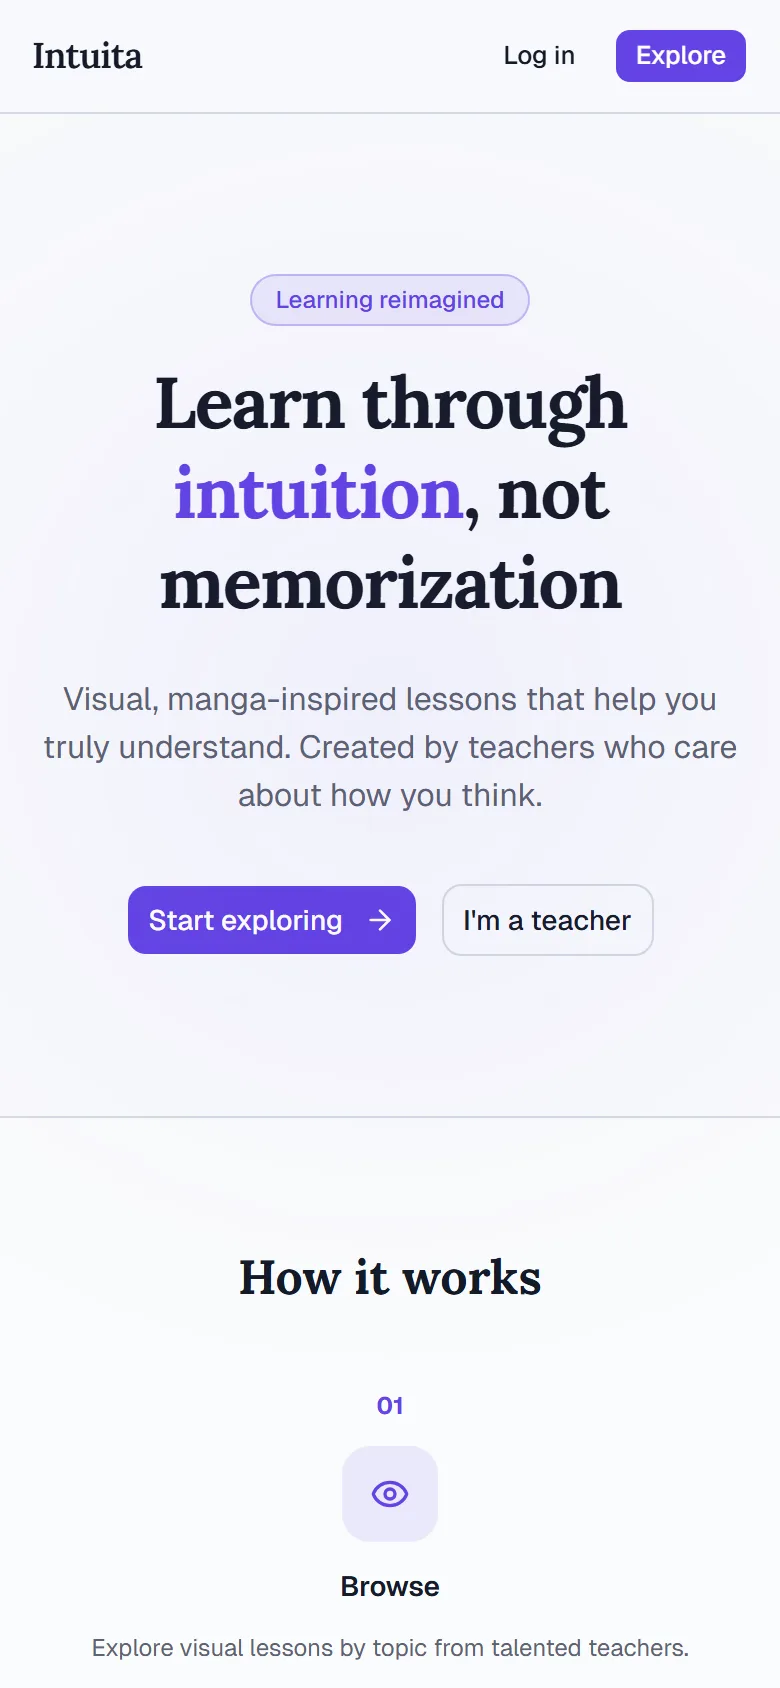
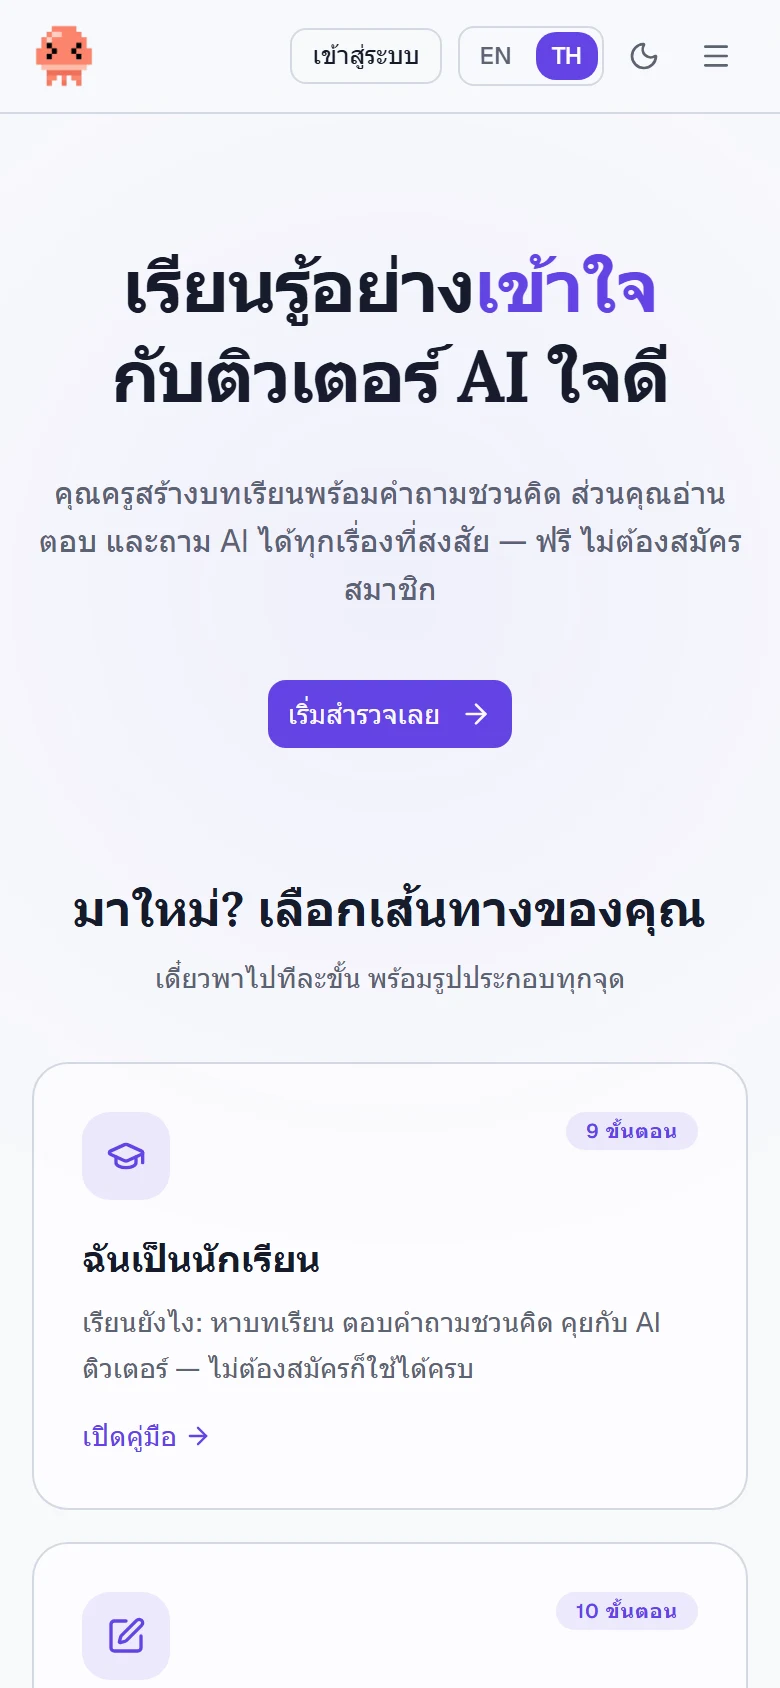
docs: show client use cases and workspace context

diff --git a/README.md b/README.md
@@ -13,7 +13,7 @@
 [![MongoDB](https://img.shields.io/badge/MongoDB-Mongoose_9-47A248?logo=mongodb&logoColor=white)](https://www.mongodb.com)
 [![Google Gemini](https://img.shields.io/badge/AI-Google_Gemini-4285F4?logo=google&logoColor=white)](https://ai.google.dev)
 
-[**Live Demo**](https://hot-potato-client.vercel.app) · [**Live API**](https://hot-potato-server.onrender.com) · [**Server Repository**](https://github.com/Jakkarin-Promsee/hot-potato-server)
+[**Showcase**](https://hot-potato-client.vercel.app/) · [**Server Repository**](https://github.com/Jakkarin-Promsee/hot-potato-server) · [**Workspace Repository**](https://github.com/jakkarin-promsee/hop-potato-root)
 
 </div>
 
@@ -23,33 +23,111 @@
 
 Hot Potato is a full-stack learning platform designed for students who are far from good schools and reliable internet. Teachers — including non-technical ones — author rich lessons with embedded critical-thinking questions. Students read the lessons, answer the questions, and can freely ask an AI tutor (Google Gemini) anything about the content. The AI responds with warm, coaching-style feedback in Thai by default, rather than plain grading.
 
-The project is split across two repositories. **This repository contains the web client and serves as the project's main documentation** — everything you need to understand and run the whole platform starts here.
+The deployable product is split across two repositories. **This repository contains the web client**; the separate workspace repository holds the cross-cutting architecture documentation.
+
+> **Implementing a feature? Keep the [root workspace repository](https://github.com/jakkarin-promsee/hop-potato-root) alongside this repo.** Its [developer guidebook](https://github.com/jakkarin-promsee/hop-potato-root#developer-guidebook) explains how client and server fit together, and its `graphify-out/` knowledge graph connects UI, API, model, and tutor concepts across both codebases. Check that graph and the current source on both sides before changing an endpoint, lesson block, auth flow, or AI behavior.
 
 | Repository | Role | Stack | Hosted on |
 | --- | --- | --- | --- |
-| **hot-potato-client** (this repo) | Web app — teacher editor + student viewer + AI chat surfaces | React 19, TypeScript, Vite 7, Tailwind CSS v4 | [Vercel](https://hot-potato-client.vercel.app) |
-| [**hot-potato-server**](https://github.com/Jakkarin-Promsee/hot-potato-server) | REST API — auth, lesson storage, student progress, the entire AI layer | Express 5, TypeScript, MongoDB (Mongoose 9), Google Gemini | [Render](https://hot-potato-server.onrender.com) |
+| **hot-potato-client** (this repo) | Web app — teacher editor + student viewer + AI chat surfaces | React 19, TypeScript, Vite 7, Tailwind CSS v4 | Vercel configuration |
+| [**hot-potato-server**](https://github.com/Jakkarin-Promsee/hot-potato-server) | REST API — auth, lesson storage, student progress, the entire AI layer | Express 5, TypeScript, MongoDB (Mongoose 9), Google Gemini | Render configuration |
 
 Two product principles shape the entire codebase:
 
 1. **AI access is never rationed for real students** — there are no per-student quotas. Rate limiting exists only to stop bots, with generous, environment-tunable thresholds.
 2. **Anonymous users keep full access** — reading lessons and using the AI tutor never requires an account. Logging in only adds persistence (answer history, chat history, tutor memory).
 
-## Screenshots
+## Use cases
 
-| Lesson viewer | Lesson editor |
+The interface is Thai-first and can switch to English. These screenshots show a seeded guide lesson and demo accounts, captured with Playwright at **2× resolution**. The landing screenshots were refreshed from the current running client with [`scripts/capture-readme-landing.mjs`](scripts/capture-readme-landing.mjs); the lesson and editor scenes come from [`scripts/capture-guide.mjs`](scripts/capture-guide.mjs). Those older guide scenes should be recaptured after further UI changes. The in-app walkthroughs are at `/guide/learning` and `/guide/creating` when the client is running.
+
+<img src="docs/readme-landing.webp" alt="Current landing page with paths for students and teachers" width="800">
+
+### Student: explore and read without signing in
+
+1. Open `/` and choose **Start exploring**, or go straight to `/explore`.
+2. Search by lesson title; switch between **All**, **Bookmarked**, and **Recent**. Bookmarks are stored on your device.
+3. Open a public lesson card. The viewer keeps the teacher's text, media, and embedded questions in reading order.
+
+| Explore lessons | Read a lesson |
 | --- | --- |
-| ![Lesson viewer](public/guide/learning-03-viewer.webp) | ![Lesson editor](public/guide/creating-03-editor-overview.webp) |
+| <img src="public/guide/learning-02-explore.webp" alt="Explore with search and a bookmarked lesson" width="340"> | <img src="public/guide/learning-03-viewer.webp" alt="Lesson viewer on a phone" width="340"> |
 
-| AI tutor feedback | Ask-AI free chat |
+### Student: answer questions and discuss the feedback
+
+The lesson can contain multiple-choice, written-answer, drag-to-fill, and typed-fill questions. Submit your answer to get feedback; a written response is evaluated for reasoning. Follow-up suggestions and the question's conversation thread let you continue thinking through the same topic.
+
+| Choose an answer | Write an answer | Fill a blank |
+| --- | --- | --- |
+| <img src="public/guide/learning-04a-choice.webp" alt="Multiple-choice question" width="360"> | <img src="public/guide/learning-04b-write.webp" alt="Written-answer question" width="360"> | <img src="public/guide/learning-04c-blankdrag.webp" alt="Drag-to-fill question" width="360"> |
+
+<img src="public/guide/learning-05-feedback.webp" alt="AI feedback with suggested follow-up questions" width="360">
+
+### Student: ask the tutor freely
+
+Tap **Ask AI** in a lesson and ask a question in your own words. Replies stream into a chat grounded in the lesson, with suggested next questions. This also works anonymously; signing in adds server-side conversation history.
+
+| Ask about the lesson | Choose a coaching style |
 | --- | --- |
-| ![AI feedback on an answer](public/guide/learning-05-feedback.webp) | ![Ask AI modal](public/guide/learning-06-askai.webp) |
+| <img src="public/guide/learning-06-askai.webp" alt="Ask AI conversation" width="340"> | <img src="public/guide/learning-07-personality.webp" alt="Tutor personality selector" width="340"> |
 
-| Teacher AI copilot hub | Publish settings |
-| --- | --- |
-| ![AI tools hub in the editor](public/guide/creating-08a-ai-hub.webp) | ![Publish modal](public/guide/creating-09b-publish-modal.webp) |
+### Student: return to learning and set preferences
 
-More walkthrough scenes live on the site itself: [student walkthrough](https://hot-potato-client.vercel.app/guide/learning) · [teacher walkthrough](https://hot-potato-client.vercel.app/guide/creating). All screenshots are generated automatically with Playwright (`scripts/capture-guide.mjs`) against seeded demo data — never hand-captured.
+With an account, visit **History** to reopen lessons and **Profile** to view or erase tutor memory. Automatic memory updates are currently **off by default** on the server; the memory screen can still display existing data. **Settings** offers language, theme, and font-size controls.
+
+| Learning history | Tutor memory | Settings |
+| --- | --- | --- |
+| <img src="public/guide/learning-08a-history.webp" alt="Recently opened lessons" width="340"> | <img src="public/guide/learning-08b-memory.webp" alt="Tutor memory card" width="340"> | <img src="public/guide/learning-09-settings.webp" alt="Language and appearance settings" width="340"> |
+
+### Teacher: create and write a lesson
+
+1. Sign in, open **Create**, and start a lesson.
+2. Write on the desktop editor canvas. Use the left rail for text, media, formulas, and questions; review the document and formatting controls alongside it.
+3. Add images or drawings and build a math expression visually when the lesson needs them.
+
+**Start a lesson:**
+
+<img src="public/guide/creating-01-create-page.webp" alt="Teacher Create page" width="760">
+
+**Open the blank editor, then write and format content:**
+
+<img src="public/guide/creating-02-blank-editor.webp" alt="Blank lesson editor" width="760">
+
+<img src="public/guide/creating-03-editor-overview.webp" alt="Lesson editor with content" width="760">
+
+<img src="public/guide/creating-04-writing.webp" alt="Text editing controls" width="760">
+
+**Add media and formulas:**
+
+<img src="public/guide/creating-05a-media.webp" alt="Image and media controls" width="760">
+
+<img src="public/guide/creating-06-formula.webp" alt="Math formula builder" width="360">
+
+### Teacher: add questions and use the AI copilot
+
+Add a question block from the editor rail and set its prompt, options, and guidance. The **AI** rail offers a workflow for outlining, drafting, improving text, generating questions, and reviewing the lesson. Generated material is previewed; it enters the document only when the teacher accepts it.
+
+**Build a question:**
+
+<img src="public/guide/creating-07a-question-panel.webp" alt="Question blocks in the editor" width="760">
+
+<img src="public/guide/creating-07b-question-creator.webp" alt="Question creator form" width="360">
+
+**Ask AI for a draft, then review its proposal:**
+
+<img src="public/guide/creating-08a-ai-hub.webp" alt="AI tools grouped by writing step" width="760">
+
+<img src="public/guide/creating-08b-draft-preview.webp" alt="AI outline awaiting approval" width="760">
+
+<img src="public/guide/creating-09a-critic.webp" alt="AI lesson review" width="760">
+
+### Teacher: publish and share
+
+Review the lesson, choose **public**, **link-only**, or **private**, and configure the tutor's per-lesson guidance. After publishing, copy or share the lesson link. A teacher can also add collaborators to help maintain a lesson.
+
+<img src="public/guide/creating-09b-publish-modal.webp" alt="Publish dialog and tutor settings" width="760">
+
+<img src="public/guide/creating-10-share.webp" alt="Share controls after publishing" width="760">
 
 ## Features
 
@@ -59,7 +137,7 @@ More walkthrough scenes live on the site itself: [student walkthrough](https://h
 - **Five embedded question types** — multiple choice, open-ended writing (AI-evaluated), fill-in-the-blank (choice and typed), and an embedded free-form AI tutor block.
 - **Streaming AI tutor** — answers stream token-by-token over SSE, render as safe markdown, and end with up to three tappable follow-up suggestion chips. Every question card supports a follow-up conversation thread.
 - **Six tutor personalities** — students pick the coaching style they like; the choice persists and is attached to every AI call.
-- **Tutor memory** — for logged-in students the tutor builds a lightweight sketch of interests, strengths, and growth areas over time, viewable and erasable from the profile page.
+- **Tutor memory controls** — logged-in students can view and erase their sketch from the profile page. Automatic sketch updates and injection are disabled by default on the server; operators can enable them with `AI_MEMORY_ENABLED=true`.
 - **No login wall** — anonymous visitors can read every public lesson and use the AI tutor in full; conversation context is kept client-side and sent per request.
 - **Answer persistence and history** — answers autosave per block; recently opened lessons appear in the history page.
 
@@ -228,7 +306,7 @@ npm run dev      # → http://localhost:5173
 
 ### 3. Try it
 
-Open `http://localhost:5173`, register an account (or stay anonymous), create a lesson from the dashboard, and open it in the viewer — the AI tutor works immediately once the server's `GEMINI_API_KEY` is set.
+Open `http://localhost:5173`. Stay anonymous to explore a public lesson and use its AI tutor. To create a lesson, register or sign in, then open **Create**. The tutor needs the server's `GEMINI_API_KEY`.
 
 ## Available scripts
 
